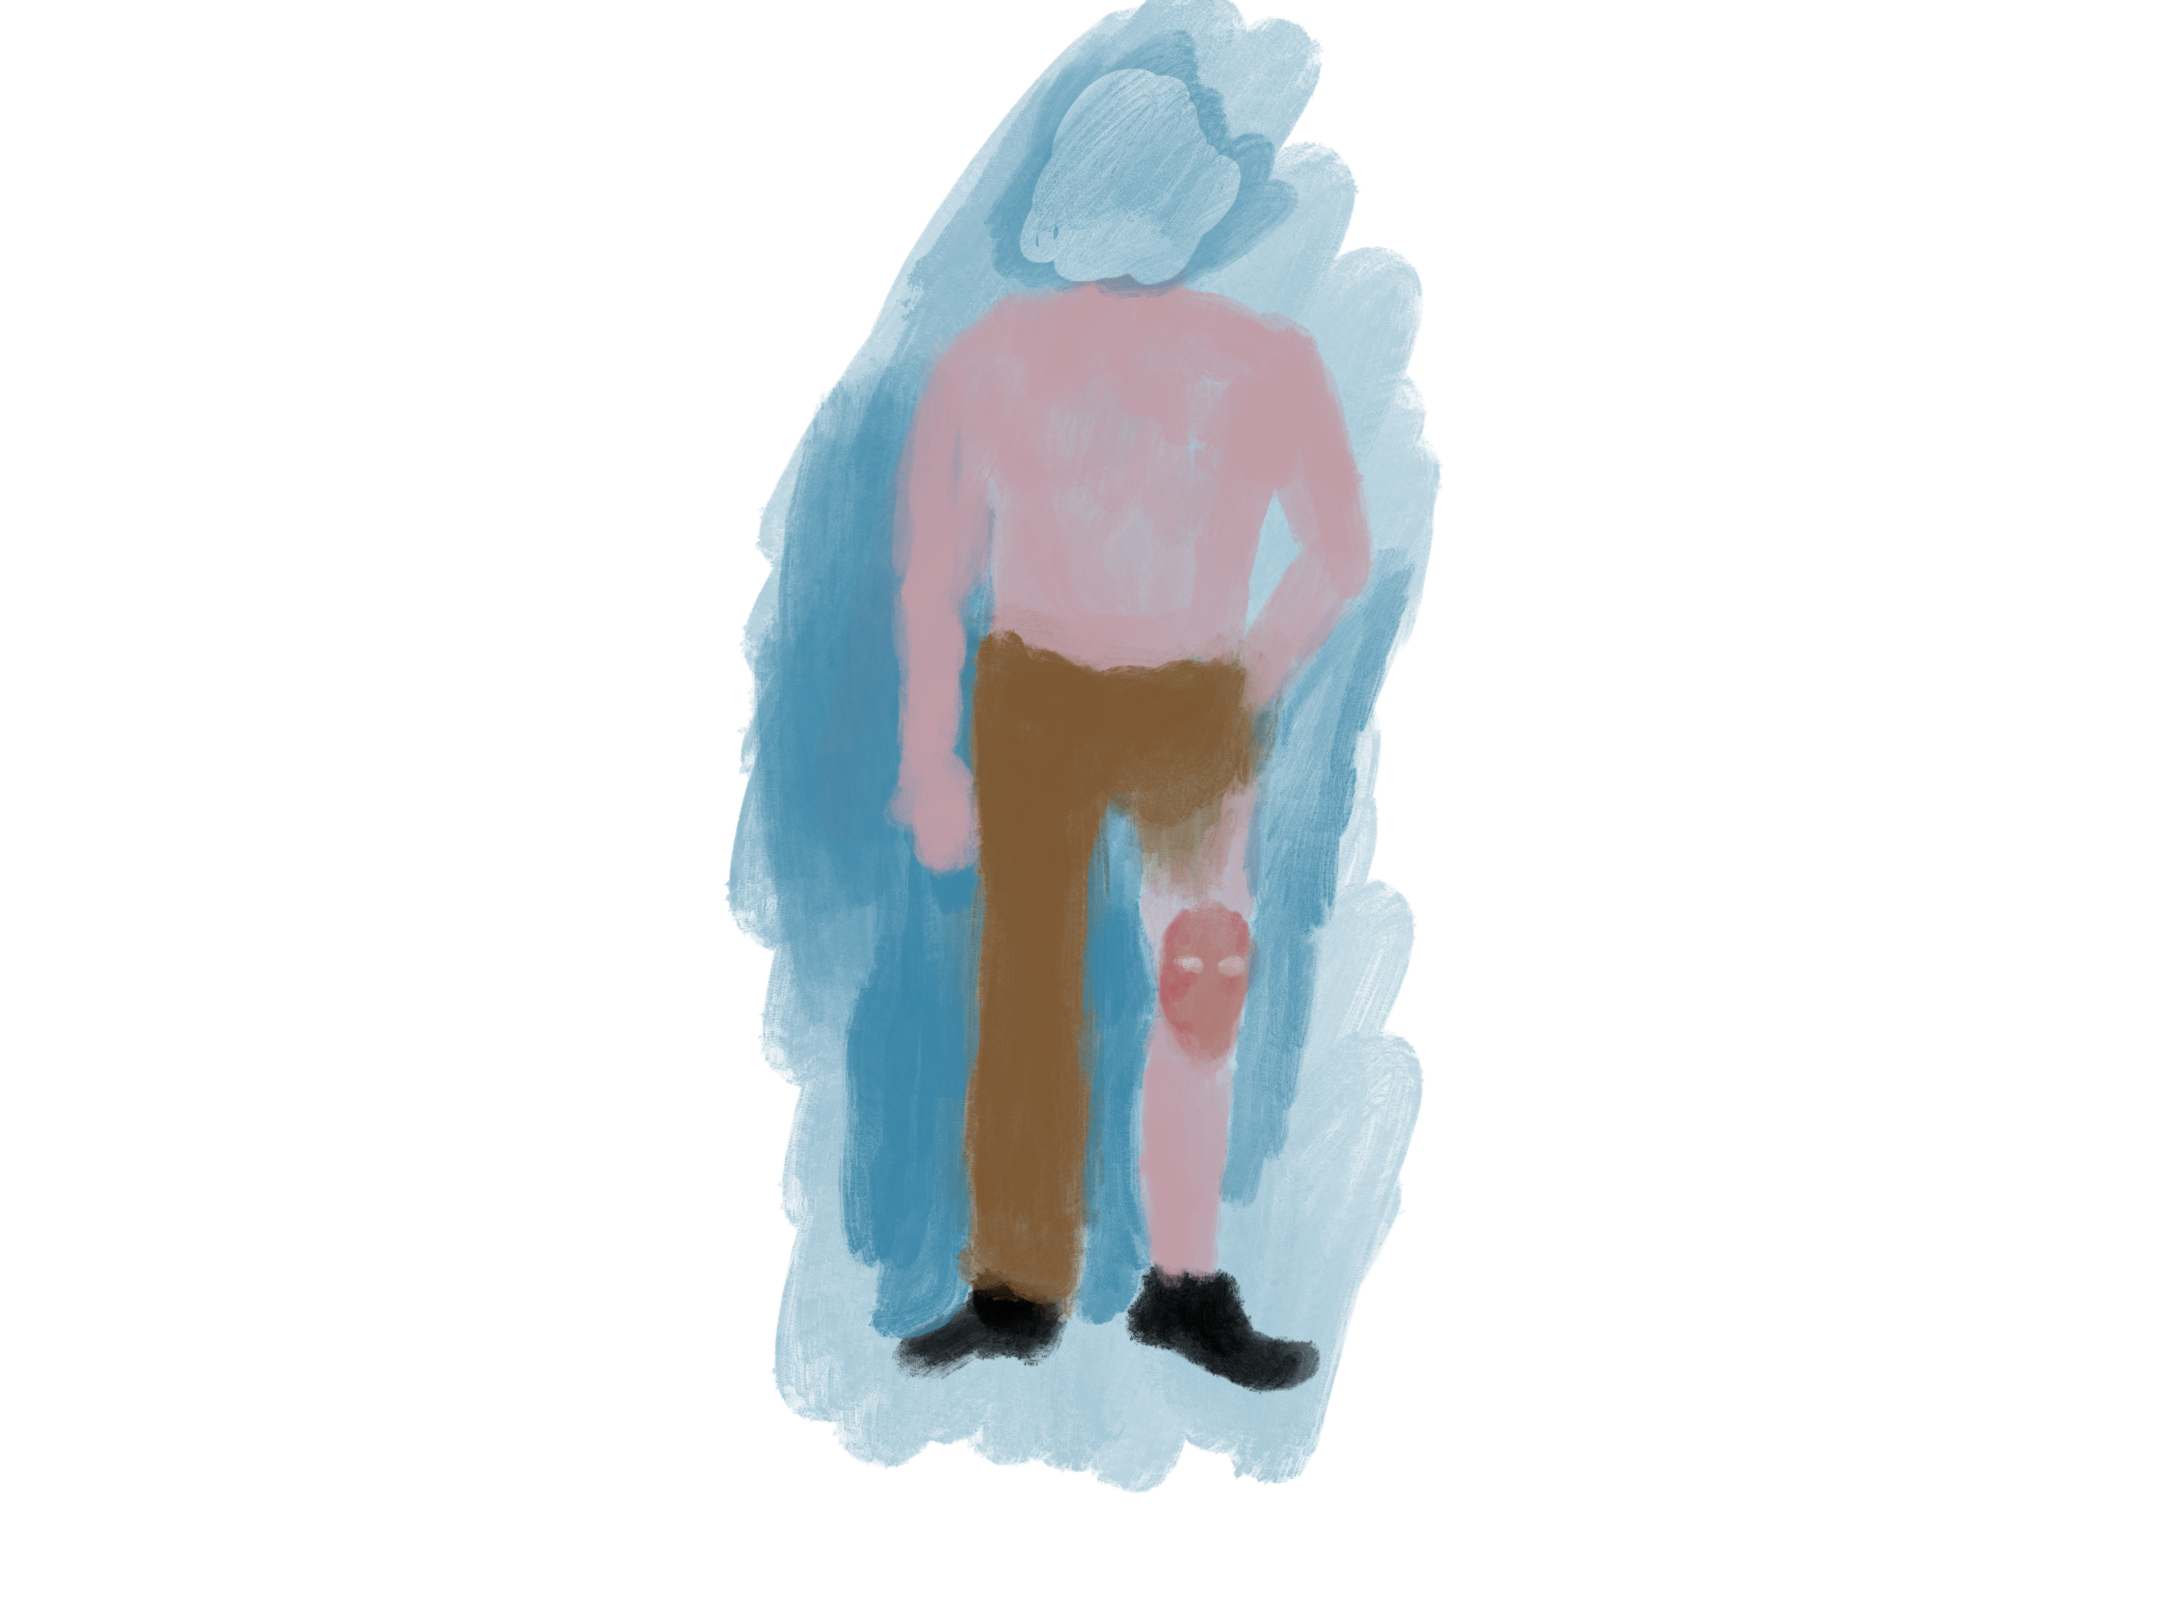
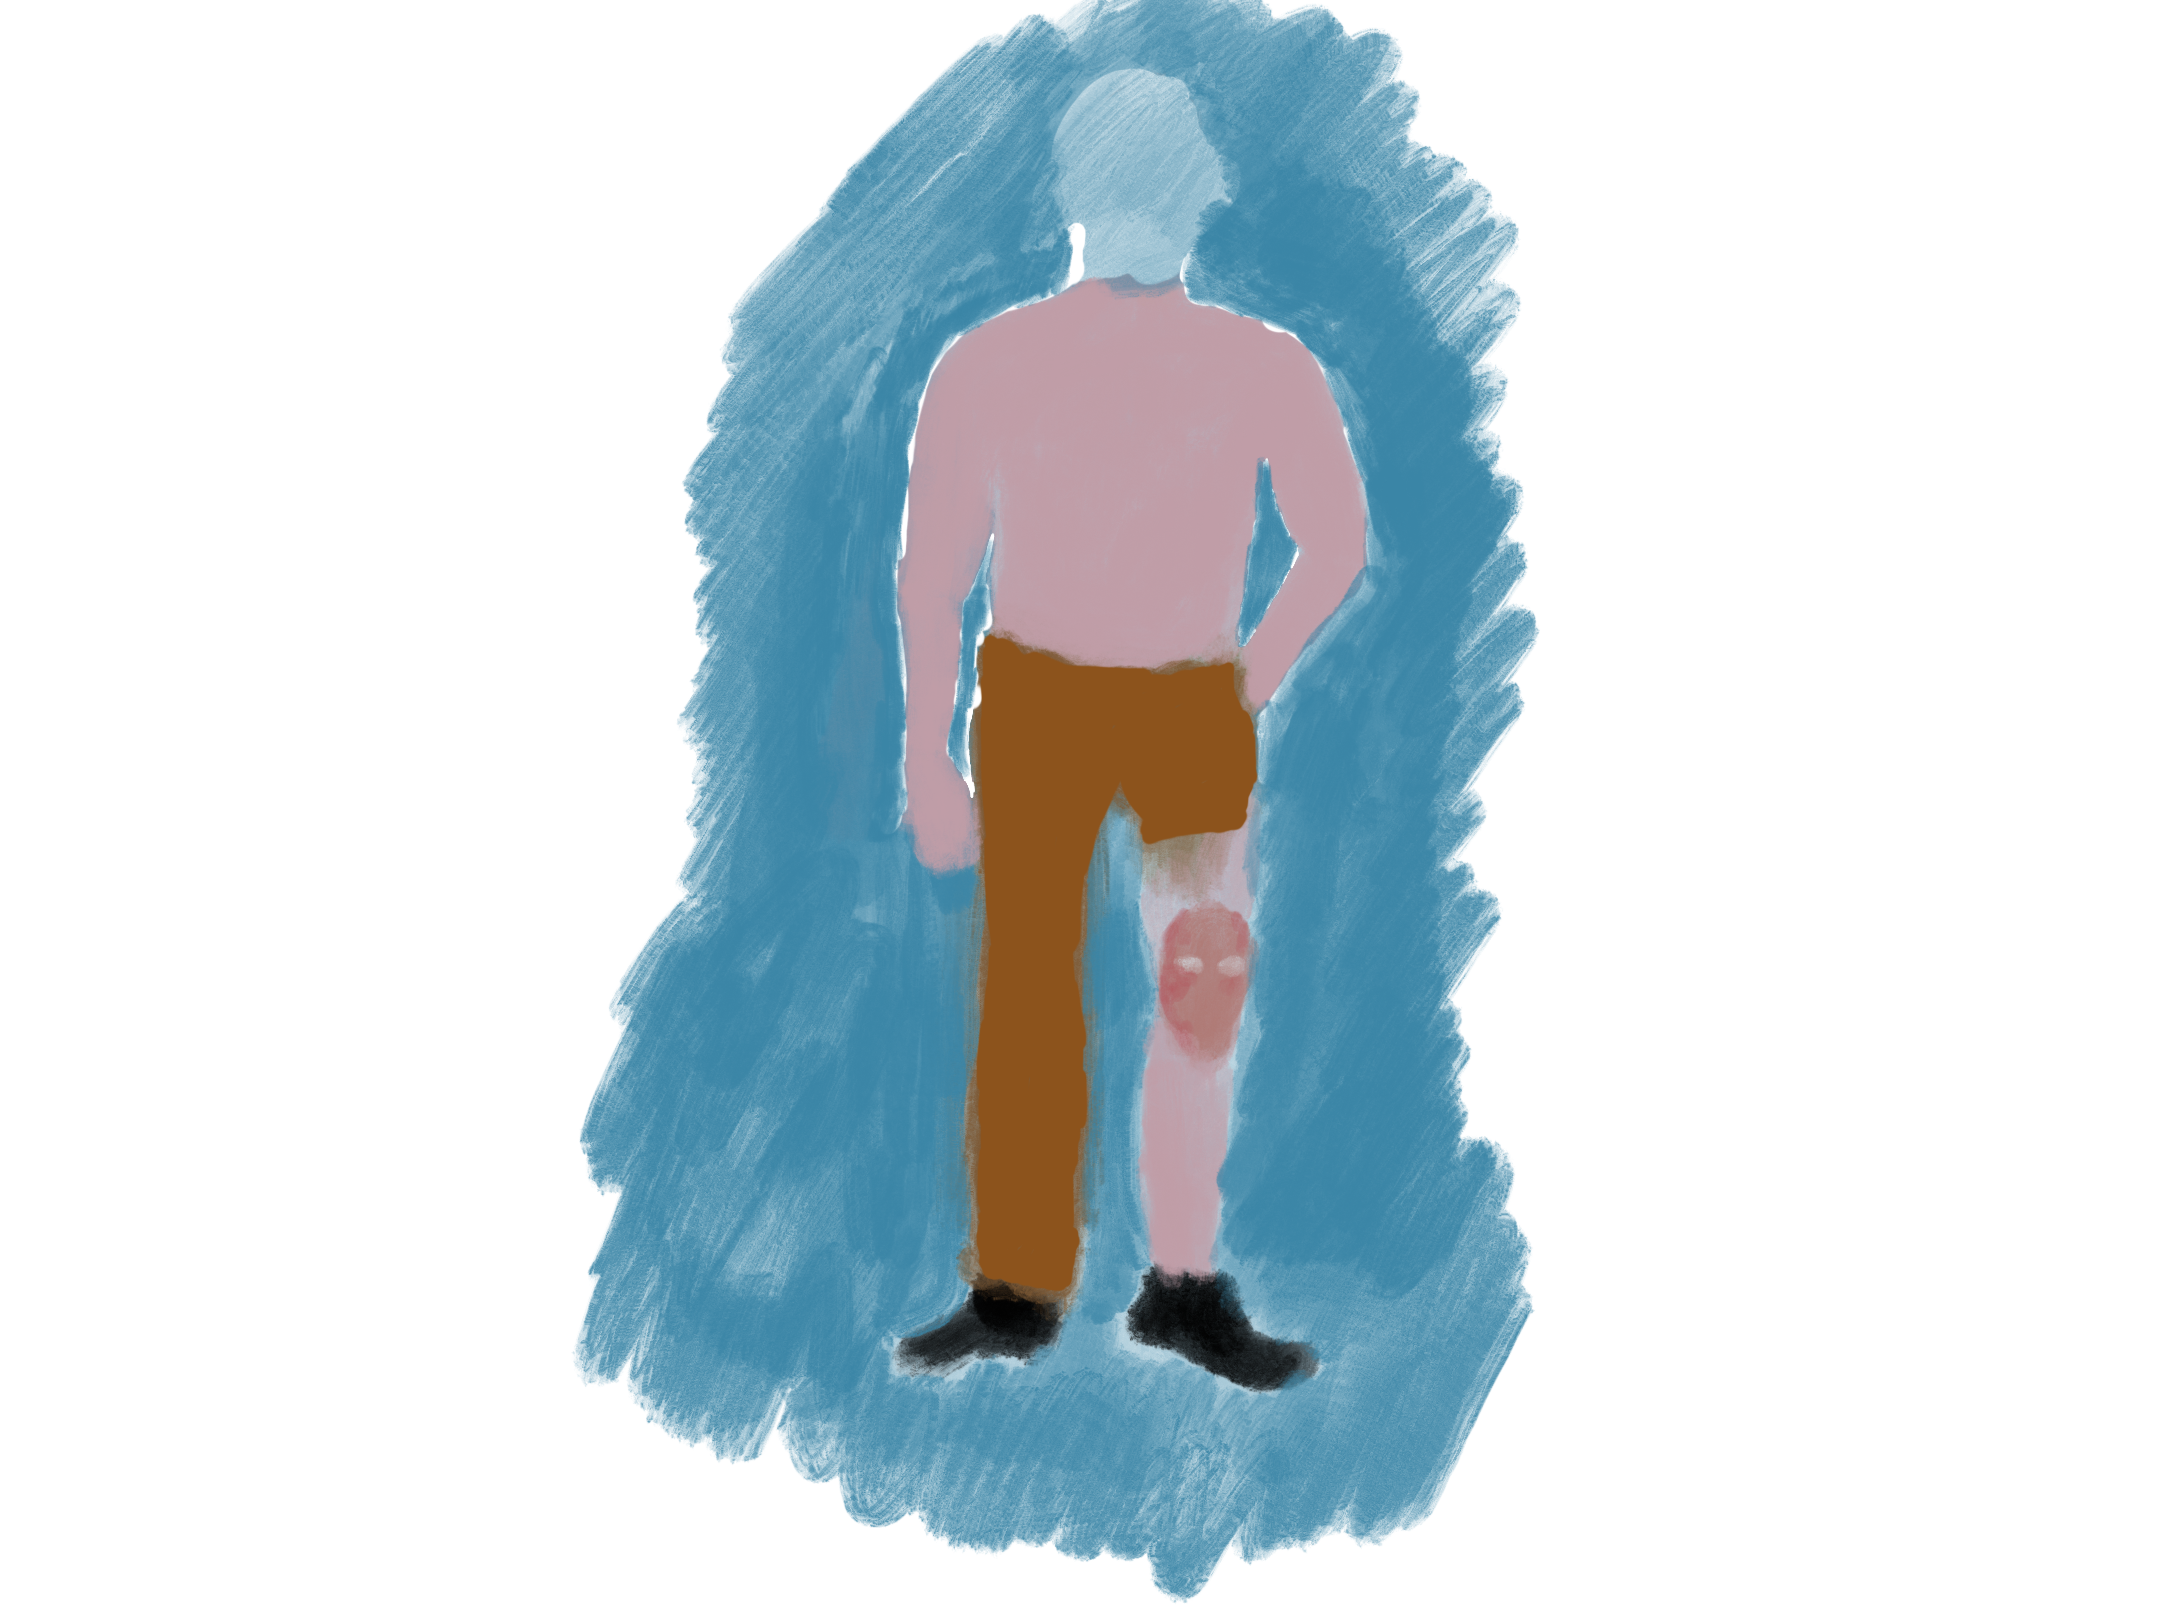
scalable sleeve

Changed region(s): [[0.2481, 0.0, 0.7134, 0.9877]]

diff --git a/src/cmp/ImageSequence.svelte b/src/cmp/ImageSequence.svelte
@@ -2,15 +2,25 @@
 	import type { LookingDirection } from '@/types'
 	import Image from '@/cmp/Image.svelte'
 	import Input from './Input.svelte'
+	import PantsDraggablePart from './PantsDraggablePart.svelte'
 
 	export let direction: LookingDirection = 'center'
 </script>
 
 <section class="grid place-items-center h-full w-full">
-	<div class="w-full h-[400px] md:w-[650px] md:h-[600px] lg:w-[900px] lg:h-[800px] border relative">
+	<div
+		class="w-full h-[400px] md:w-[750px] md:h-[700px] lg:w-[1000px] lg:h-[900px] border relative"
+	>
 		<!-- the base body and paint -->
 		<Image src="/pics/base-paint.png" />
 		<Image src="/pics/base.png" />
+
+		<!-- desktop -->
+		<PantsDraggablePart capX={3} capY={187} className="hidden lg:block" />
+		<!-- tablet -->
+		<PantsDraggablePart capX={3} capY={137} className="hidden md:block lg:hidden" />
+		<!-- mobile -->
+		<PantsDraggablePart capX={2} capY={104} className="block md:hidden" />
 
 		<!-- the head and head paint are conditionally rendered -->
 		{#if direction === 'left'}

diff --git a/src/cmp/Input.svelte b/src/cmp/Input.svelte
@@ -1,6 +1,5 @@
-<script>
-	import { lookingDirection } from '@/store'
-
+<script type="ts">
+	import { lookingDirection, pantsDragValue } from '@/store'
 	const handleDown = () => lookingDirection.update(() => 'down')
 	const handleUp = () => lookingDirection.update(() => 'center')
 </script>
@@ -8,6 +7,9 @@
 <input
 	on:mousedown={handleDown}
 	on:mouseup={handleUp}
+	bind:value={$pantsDragValue}
 	type="range"
-	class="absolute h-3 w-[120px] md:w-[140px] lg:w-[190px] origin-right rotate-90 bottom-[22%] sm:bottom-[20%] right-[45%] sm:right-[46.2%] md:bottom-[155px] md:right-[290px] lg:bottom-[200px] lg:right-[400px]"
+	min="0"
+	max="10"
+	class="opacity-0 hover:cursor-pointer absolute h-3 w-[120px] origin-right rotate-90 bottom-[23%] right-[45%] sm:right-[46.2%] sm:bottom-[20%] md:bottom-[190px] md:w-[150px] md:right-[335px] lg:w-[200px] lg:bottom-[240px] lg:right-[445px]"
 />

diff --git a/src/cmp/MouseMonitor.svelte b/src/cmp/MouseMonitor.svelte
@@ -1,14 +1,14 @@
 <script lang="ts">
-	import { lookingDirection } from '@/store'
+	import { lookingDirection, pantsDragValue } from '@/store'
 
 	export let x: number
 	export let y: number
 
 	$: lookingDirection.update((value) => {
 		if (value !== 'down') {
-			if (x <= window.innerWidth * 0.25) {
+			if (x <= window.innerWidth * 0.35) {
 				return 'left'
-			} else if (x >= window.innerWidth * 0.75) {
+			} else if (x >= window.innerWidth * 0.65) {
 				return 'right'
 			} else return 'center'
 		}
@@ -24,4 +24,5 @@
 	<p>
 		{`y: ${y}`}
 	</p>
+	<p>{`pants: ${$pantsDragValue}`}</p>
 </div>

diff --git a/src/cmp/Image.svelte b/src/cmp/Image.svelte
@@ -1,13 +1,15 @@
-<script>
+<script lang="ts">
 	import { fade } from 'svelte/transition'
 
 	export let src = ''
 	export let transitionConfig = { duration: 100 }
+	export let coords = { x: 0, y: 0 }
 </script>
 
 <img
 	transition:fade={transitionConfig}
-	class="h-full w-full object-contain absolute top-0 left-0 bg-transparent"
+	class="h-full w-full object-contain absolute top-0 left-0 bg-transparent pointer-events-none"
 	{src}
 	alt={src}
+	style={`transform: translateX(${coords.x}px) translateY(${coords.y}px)`}
 />

diff --git a/src/cmp/PantsDraggablePart.svelte b/src/cmp/PantsDraggablePart.svelte
@@ -1,0 +1,18 @@
+<script>
+	import Image from './Image.svelte'
+	import { pantsDragValue } from '@/store'
+
+	export let capX = 0
+	export let capY = 0
+
+	export let className = ''
+
+	$: pantsPosition = {
+		x: capX - capX * ($pantsDragValue * 0.1),
+		y: -capY + capY * ($pantsDragValue * 0.1)
+	}
+</script>
+
+<span class={className}>
+	<Image coords={pantsPosition} src="/pics/pants-draggable-part.png" />
+</span>

diff --git a/src/store.ts b/src/store.ts
@@ -2,3 +2,5 @@ import { writable } from 'svelte/store'
 import type { LookingDirection } from './types'
 
 export const lookingDirection = writable<LookingDirection>('center')
+
+export const pantsDragValue = writable(10)
